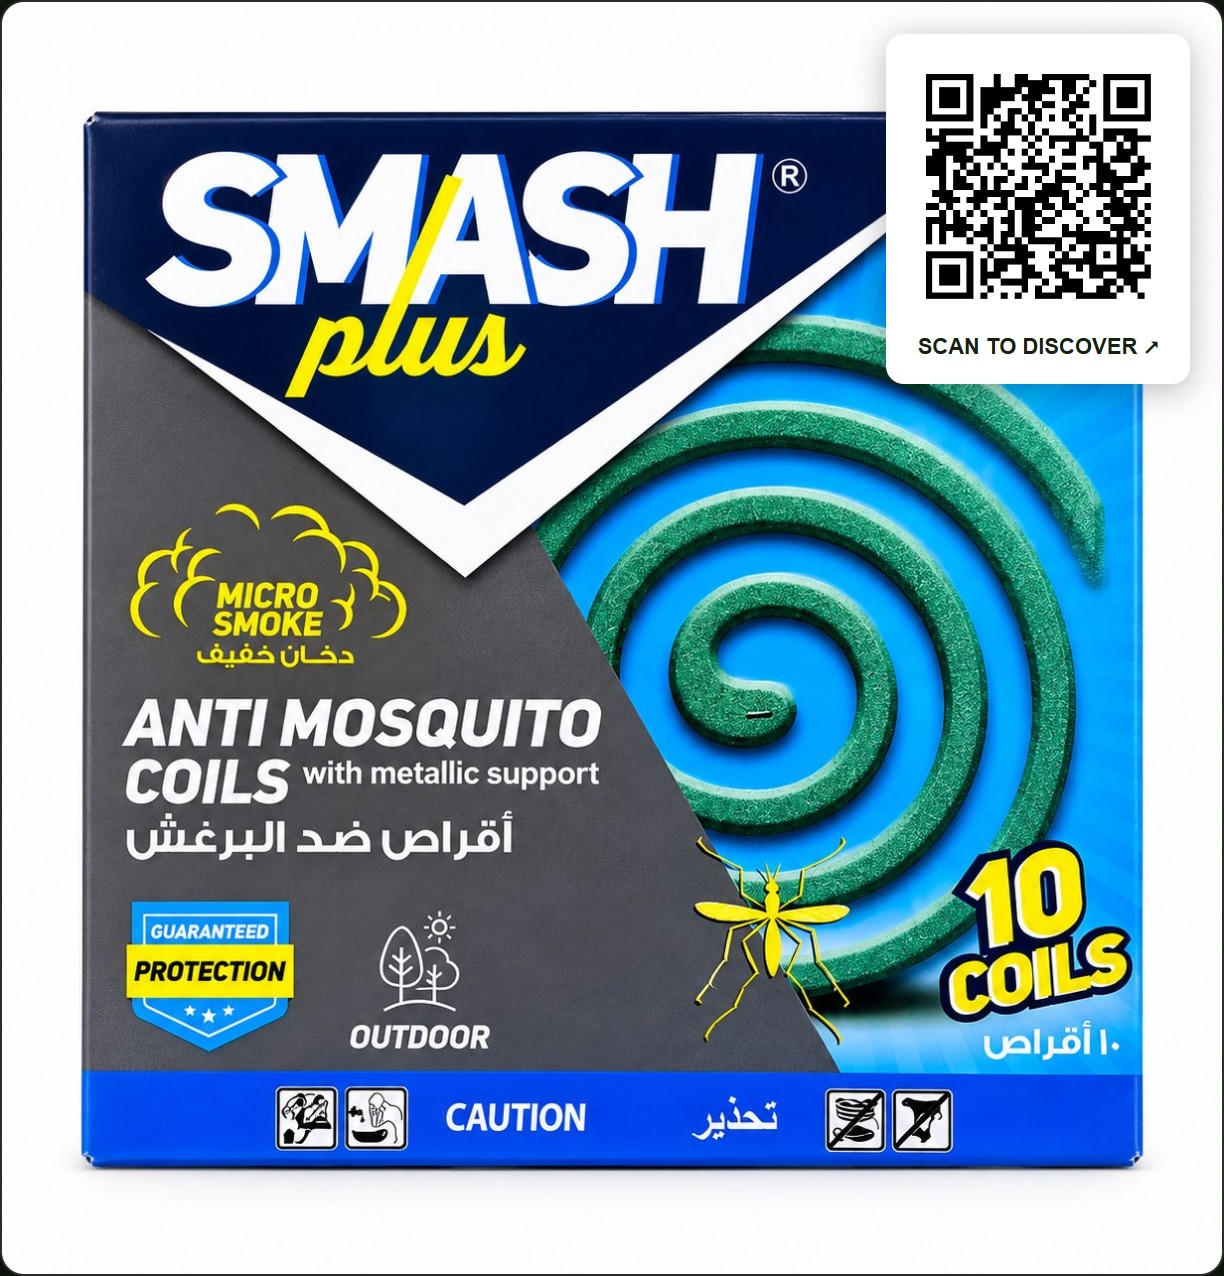
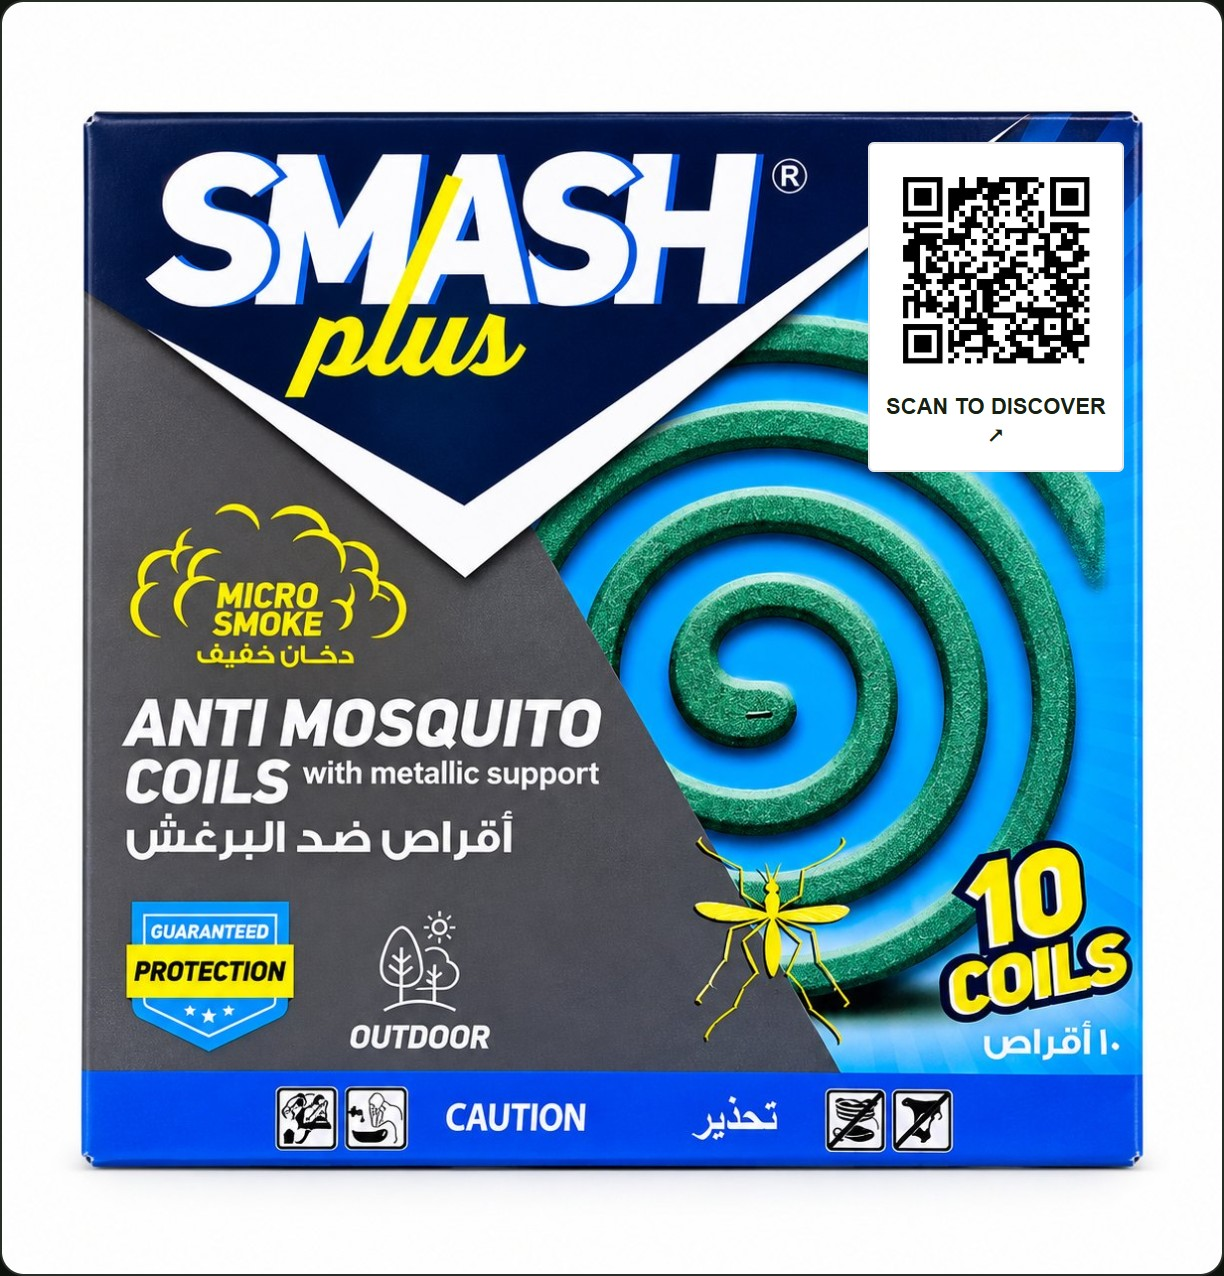
Place scan QR label directly on product packaging

Changed region(s): [[0.683, 0.0611, 0.9935, 0.3973]]

diff --git a/public/target.html b/public/target.html
@@ -4,7 +4,7 @@
 <meta charset="utf-8"><meta name="viewport" content="width=device-width,initial-scale=1">
 <title>SMASH plus · Scan to discover</title>
 <style>
-*{box-sizing:border-box}body{margin:0;background:#111510;color:#eeeee3;font-family:Arial,Helvetica,sans-serif}a{color:inherit}header{max-width:1280px;margin:auto;padding:32px 5%;display:flex;align-items:center;justify-content:space-between}.brand{font-size:28px;font-weight:900;letter-spacing:-1.5px;text-decoration:none}.brand em{font:italic 25px Georgia,serif;color:#d6e6a4;margin-left:5px}.edition{font-size:10px;color:#aab69d;letter-spacing:2px}main{display:grid;grid-template-columns:.85fr 1.15fr;align-items:center;gap:7%;max-width:1280px;margin:35px auto 0;padding:0 5% 30px}.eyebrow{font-size:10px;letter-spacing:2px;color:#d6e6a4}h1{font-size:clamp(44px,4.7vw,68px);line-height:1.06;letter-spacing:-3px;font-weight:400;margin:25px 0}h1 em{font-family:Georgia,serif;color:#d6e6a4;font-weight:400}.lead{font-size:15px;line-height:1.75;color:#a9b39f;max-width:320px}ol{list-style:none;padding:0;margin:36px 0 0}li{display:flex;gap:18px;margin:23px 0;align-items:flex-start}li>span{font-size:11px;color:#9caa86;border:1px solid #d6e6a430;border-radius:50%;width:30px;height:30px;display:grid;place-items:center;flex-shrink:0}li strong{font-size:14px;font-weight:500;display:block;margin:1px 0 6px}li p{font-size:12px;line-height:1.5;color:#8f9d85;margin:0}.stage{max-width:620px;width:100%;margin:auto}.stage-top{display:flex;align-items:center;justify-content:space-between;font-size:9px;letter-spacing:2px;color:#95a289;margin-bottom:16px}.stage-top span:first-child:before{content:'';display:inline-block;width:5px;height:5px;background:#d6e6a4;border-radius:50%;margin-right:8px}.product{position:relative;box-shadow:0 25px 100px #0007;border:1px solid #ffffff1a;border-radius:12px;overflow:hidden}#target{display:block;width:100%;height:auto}#phone{position:absolute;top:2.5%;right:2.5%;width:25%;padding:6px;background:#fff;color:#172013;border-radius:9px;box-shadow:0 3px 16px #0004}#url{text-decoration:none;display:block}#qr{display:block;width:100%;height:auto}#phone p{text-align:center;font-size:clamp(8px,1vw,11px);font-weight:700;line-height:1.3;margin:3px 0 5px}.caption{text-align:center;color:#98a38e;font-size:11px;line-height:1.6;margin:18px 0}.caption b{color:#d9e1d0;font-weight:400}footer{max-width:1280px;margin:10px auto;padding:20px 5% 28px;display:flex;justify-content:space-between;color:#79866f;font-size:10px;letter-spacing:.7px}footer a{text-underline-offset:4px}[hidden]{display:none!important}a:focus-visible{outline:2px solid #d6e6a4;outline-offset:5px}@media(min-width:1000px) and (max-height:800px){main{margin-top:8px}.stage{max-width:520px}h1{font-size:54px}}@media(max-width:760px){header{padding:24px}.edition{font-size:8px}main{grid-template-columns:1fr;gap:28px;padding:12px 24px;margin-top:0}.copy{text-align:center}h1{font-size:44px;letter-spacing:-2px;margin:18px 0}.lead{margin:0 auto}ol{display:none}.stage{max-width:520px}footer{padding:20px 24px;gap:20px;font-size:9px}}
+*{box-sizing:border-box}body{margin:0;background:#111510;color:#eeeee3;font-family:Arial,Helvetica,sans-serif}a{color:inherit}header{max-width:1280px;margin:auto;padding:32px 5%;display:flex;align-items:center;justify-content:space-between}.brand{font-size:28px;font-weight:900;letter-spacing:-1.5px;text-decoration:none}.brand em{font:italic 25px Georgia,serif;color:#d6e6a4;margin-left:5px}.edition{font-size:10px;color:#aab69d;letter-spacing:2px}main{display:grid;grid-template-columns:.85fr 1.15fr;align-items:center;gap:7%;max-width:1280px;margin:35px auto 0;padding:0 5% 30px}.eyebrow{font-size:10px;letter-spacing:2px;color:#d6e6a4}h1{font-size:clamp(44px,4.7vw,68px);line-height:1.06;letter-spacing:-3px;font-weight:400;margin:25px 0}h1 em{font-family:Georgia,serif;color:#d6e6a4;font-weight:400}.lead{font-size:15px;line-height:1.75;color:#a9b39f;max-width:320px}ol{list-style:none;padding:0;margin:36px 0 0}li{display:flex;gap:18px;margin:23px 0;align-items:flex-start}li>span{font-size:11px;color:#9caa86;border:1px solid #d6e6a430;border-radius:50%;width:30px;height:30px;display:grid;place-items:center;flex-shrink:0}li strong{font-size:14px;font-weight:500;display:block;margin:1px 0 6px}li p{font-size:12px;line-height:1.5;color:#8f9d85;margin:0}.stage{max-width:620px;width:100%;margin:auto}.stage-top{display:flex;align-items:center;justify-content:space-between;font-size:9px;letter-spacing:2px;color:#95a289;margin-bottom:16px}.stage-top span:first-child:before{content:'';display:inline-block;width:5px;height:5px;background:#d6e6a4;border-radius:50%;margin-right:8px}.product{position:relative;box-shadow:0 25px 100px #0007;border:1px solid #ffffff1a;border-radius:12px;overflow:hidden}#target{display:block;width:100%;height:auto}#phone{position:absolute;top:11%;right:8%;width:21%;padding:5px;background:#fff;color:#172013;border-radius:3px;border:1px solid #e4e4e4}#url{text-decoration:none;display:block}#qr{display:block;width:100%;height:auto}#phone p{text-align:center;font-size:clamp(8px,1vw,11px);font-weight:700;line-height:1.3;margin:3px 0 5px}.caption{text-align:center;color:#98a38e;font-size:11px;line-height:1.6;margin:18px 0}.caption b{color:#d9e1d0;font-weight:400}footer{max-width:1280px;margin:10px auto;padding:20px 5% 28px;display:flex;justify-content:space-between;color:#79866f;font-size:10px;letter-spacing:.7px}footer a{text-underline-offset:4px}[hidden]{display:none!important}a:focus-visible{outline:2px solid #d6e6a4;outline-offset:5px}@media(min-width:1000px) and (max-height:800px){main{margin-top:8px}.stage{max-width:520px}h1{font-size:54px}}@media(max-width:760px){header{padding:24px}.edition{font-size:8px}main{grid-template-columns:1fr;gap:28px;padding:12px 24px;margin-top:0}.copy{text-align:center}h1{font-size:44px;letter-spacing:-2px;margin:18px 0}.lead{margin:0 auto}ol{display:none}.stage{max-width:520px}footer{padding:20px 24px;gap:20px;font-size:9px}}
 </style>
 </head>
 <body>
